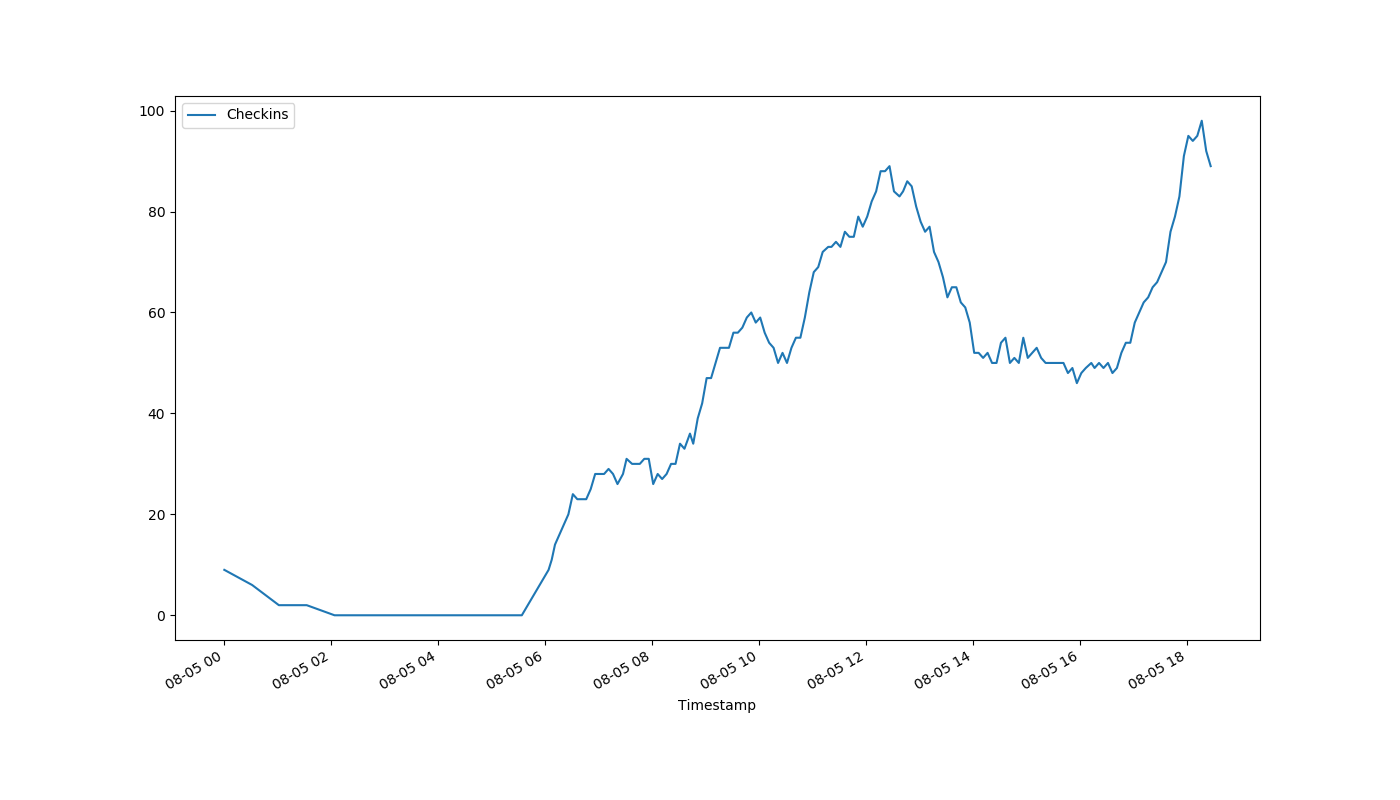
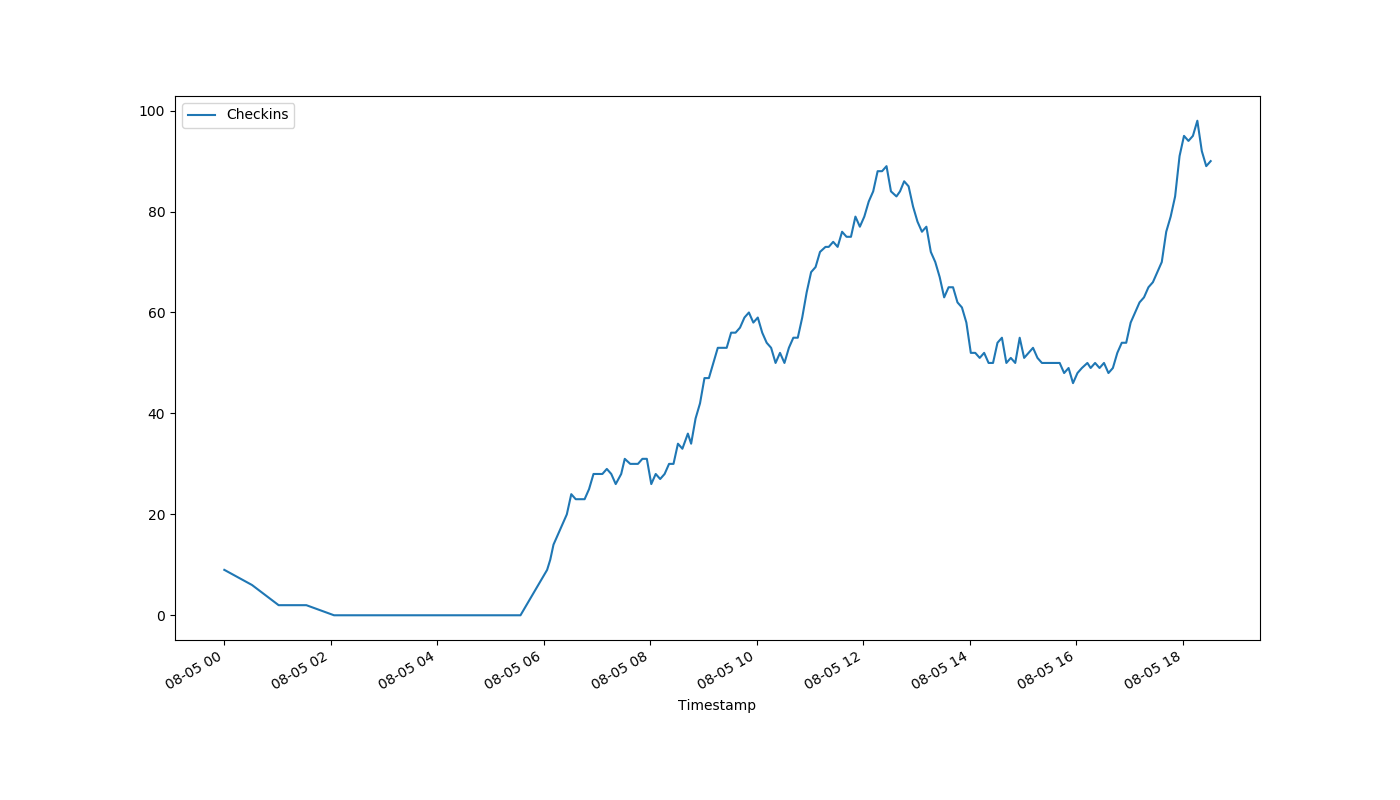
auto-Aug-05-18:32:33

diff --git a/index.html b/index.html
@@ -1,1 +1,1 @@
-<!DOCTYPE html><html><head><meta http-equiv="refresh" content="30"><link rel='stylesheet' href='holmcurrent.css'></head><body><p id='count'>89</p><div id='graph-wrap'><img id='graph' src='holmgraph-Aug-05.png'></div><p id='updated'>Last updated 18:27:02 / 18:26:16</p></body></html>
+<!DOCTYPE html><html><head><meta http-equiv="refresh" content="30"><link rel='stylesheet' href='holmcurrent.css'></head><body><p id='count'>90</p><div id='graph-wrap'><img id='graph' src='holmgraph-Aug-05.png'></div><p id='updated'>Last updated 18:32:03 / 18:31:16</p></body></html>
